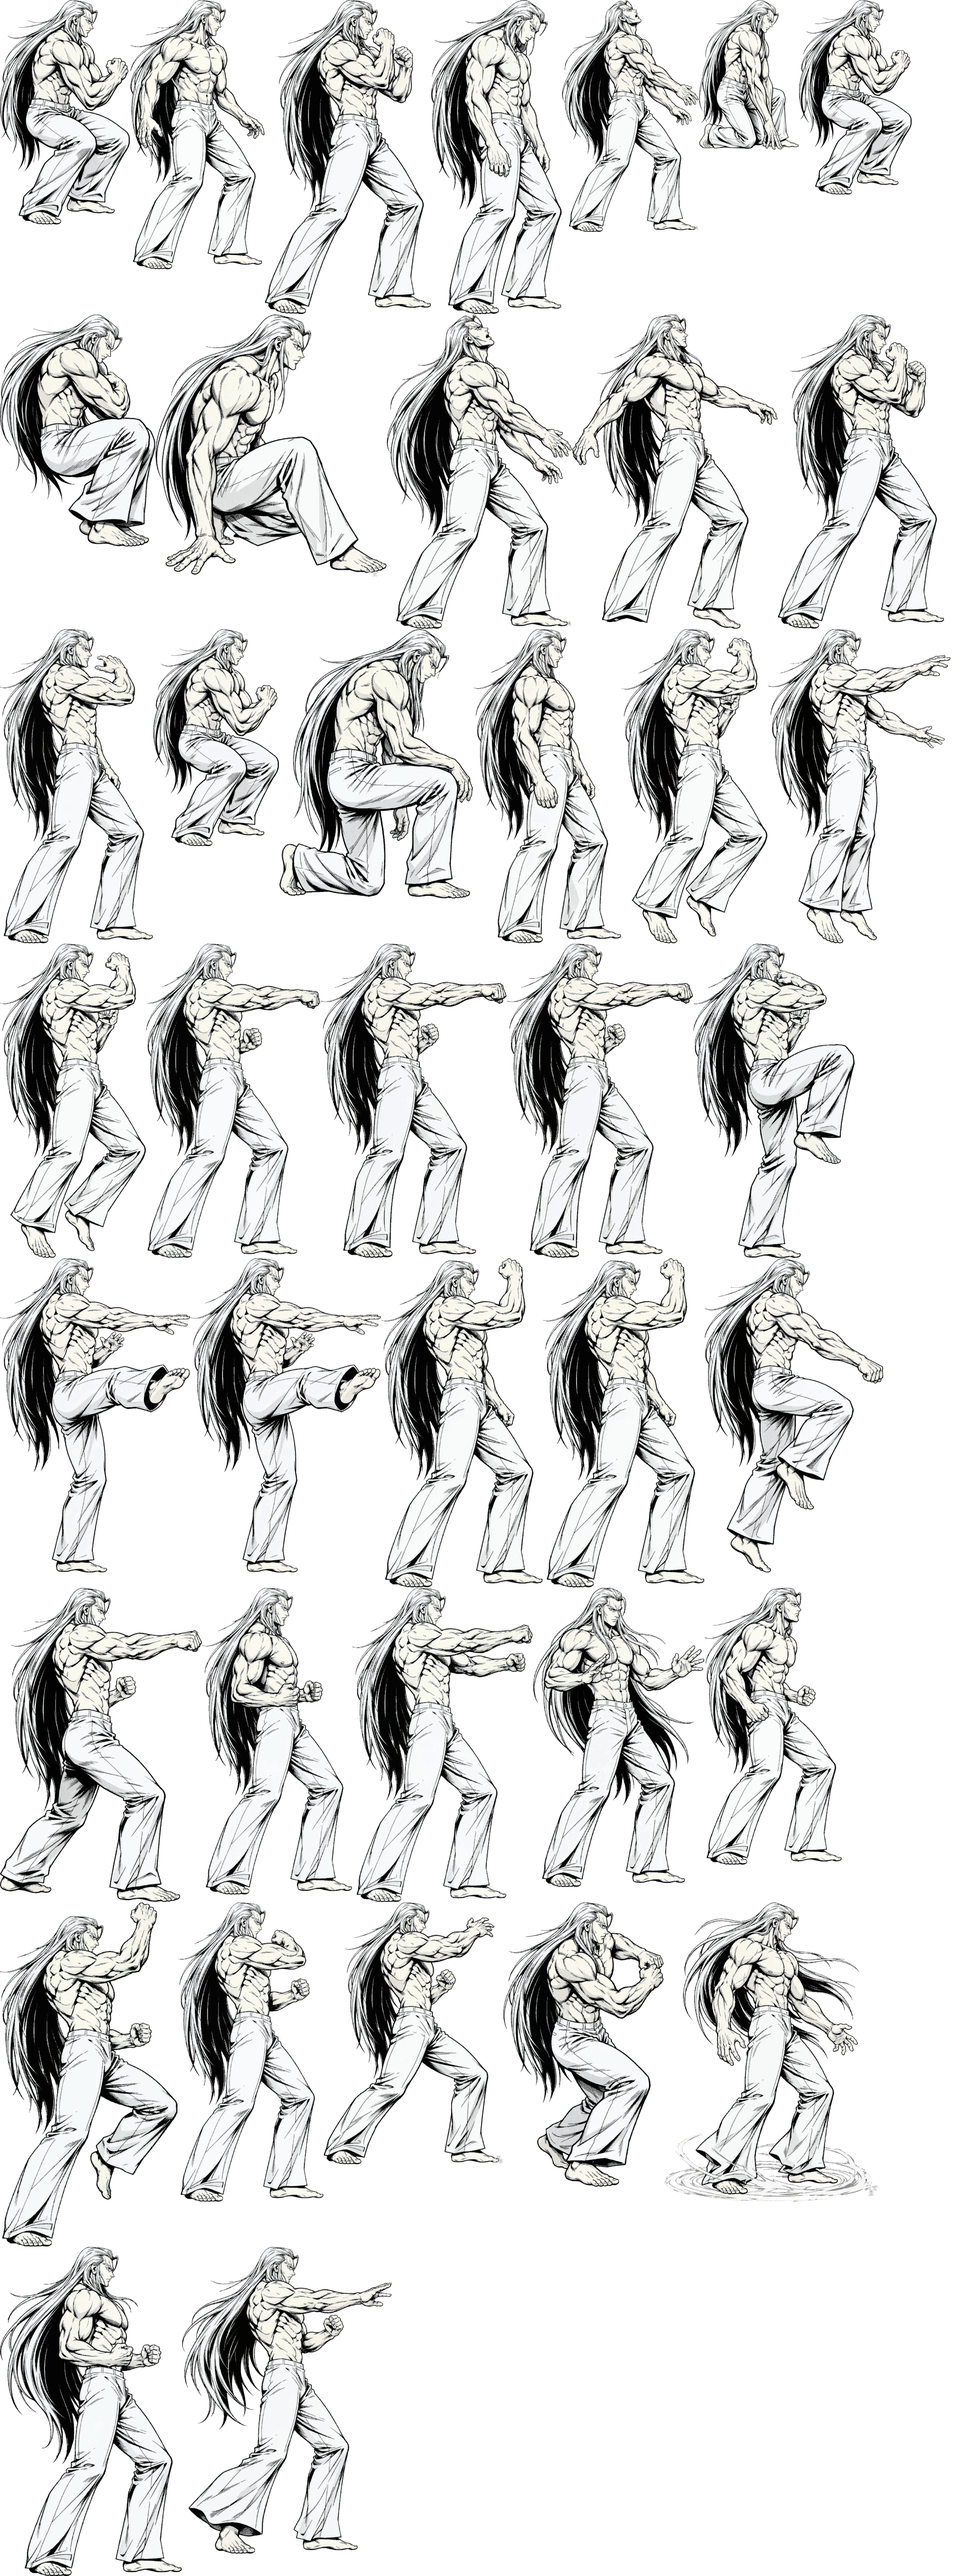
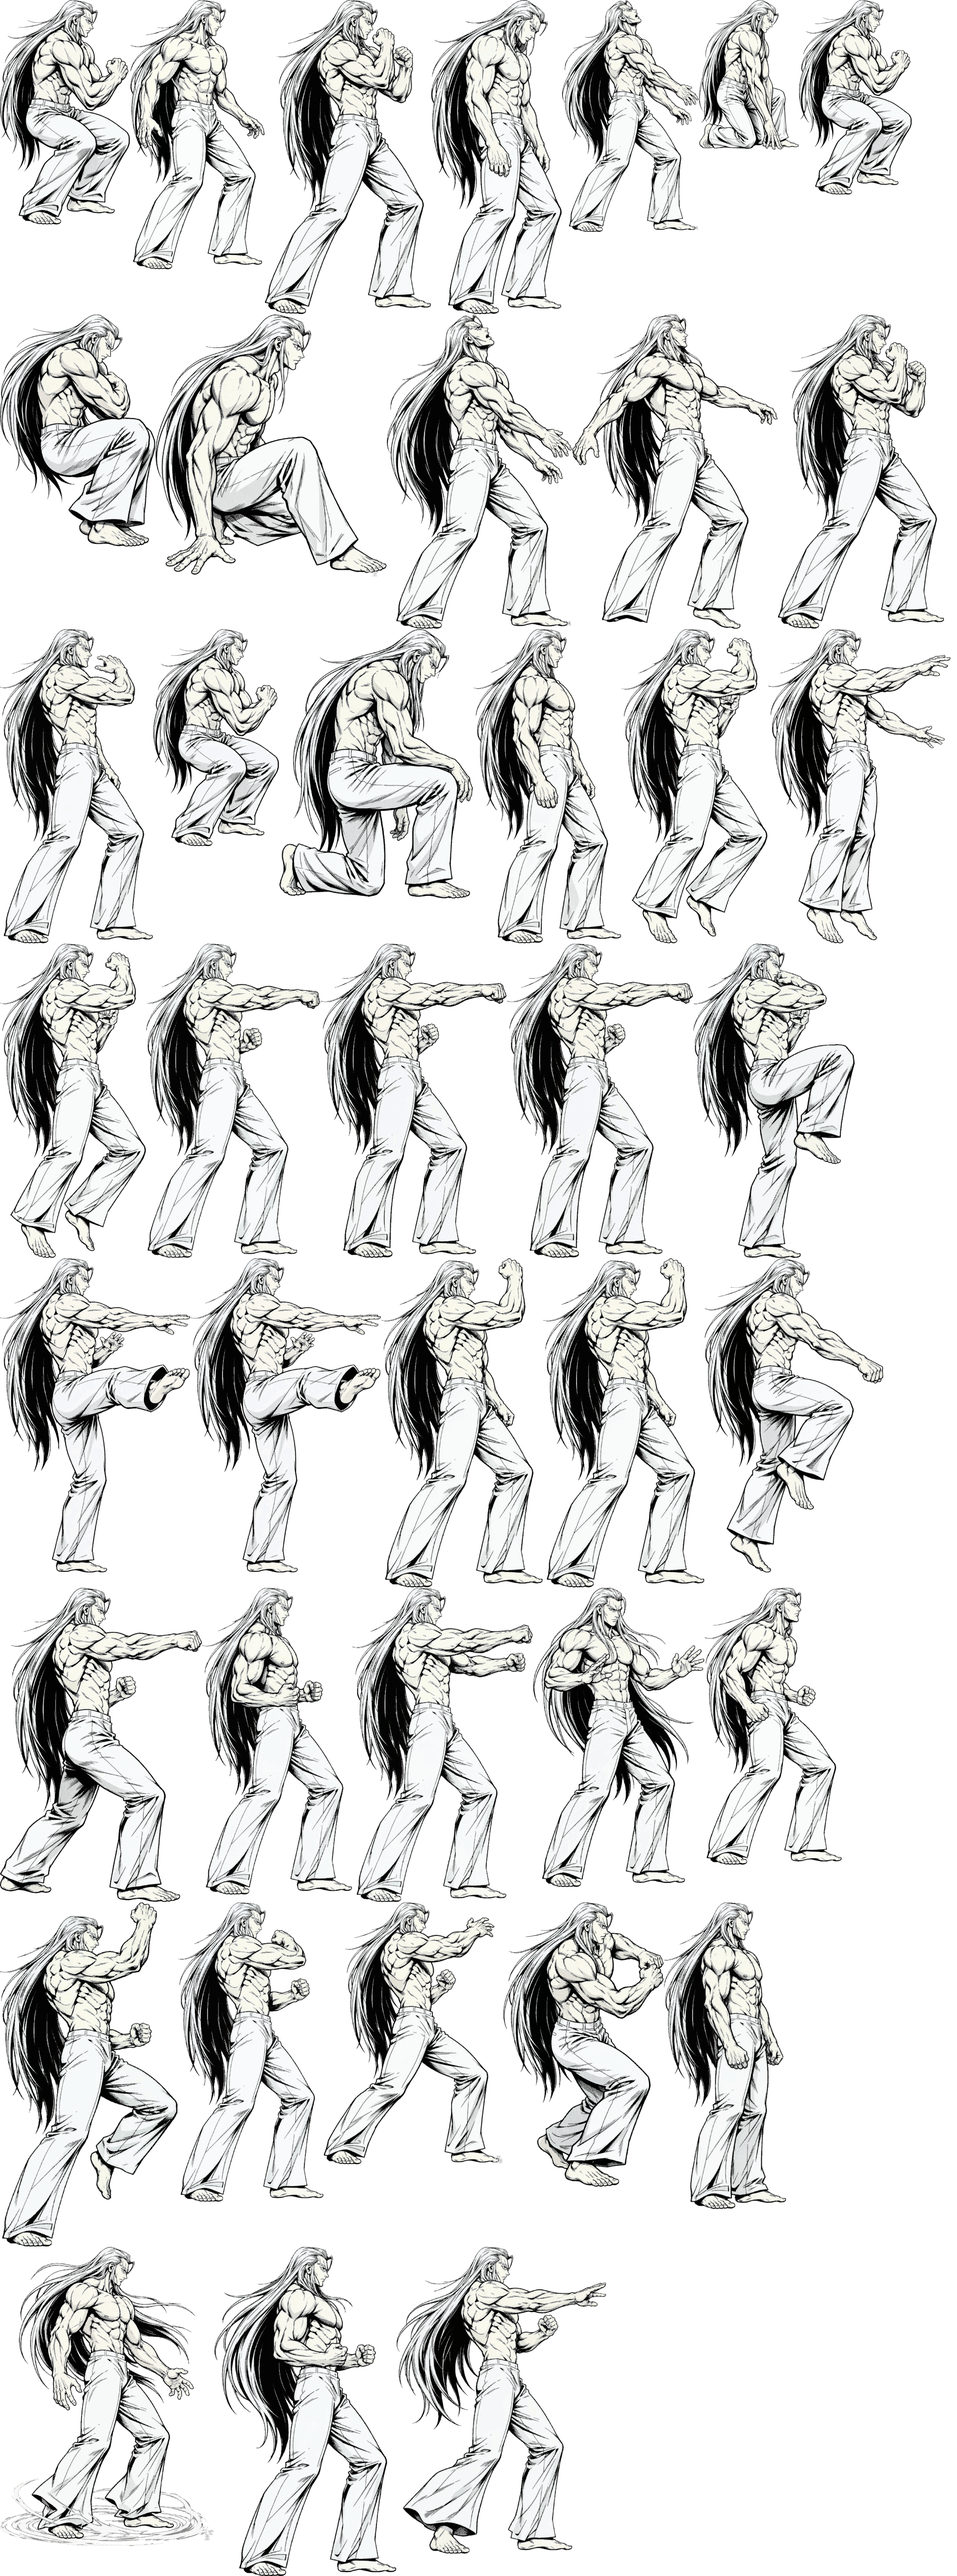
批次 20261027-0526 · [T255] 突进补收招帧：29/29 三帧（含缺帧补齐兜底）
结果：specialRush 29/29 三帧（京 592→640→656），art:check 通过，993 条测试全绿。

**关键决策：加了"缺帧补齐"兜底**。出图跑到 24/27（chris/goenitz/orochi 没出），
如果让它们少一帧，就会出现"同一招在不同角色上帧数不同"——播放节奏对不上，
看起来像卡了一下。所以 build-sheet 现在会**复制最后一帧补齐到目标帧数**：
多停 1/60 秒几乎看不出来，比破面好得多。

诚实说明：chris/goenitz/orochi 三个角色的第三帧是**复制的第二帧**、不是真出的图，
它们的收招是"停在出手姿势多一拍"而不是"收回来"——但这三个是 BOSS/新面孔，
平时很少被选到。

为什么不用"全员降回两帧"：24 个角色的真收招帧就白做了；补齐是"保住多数 + 兜住少数"
的折中。

怎么验证的：逐角色统计 {"3":29}；art:check 通过；npm run check 993 条全绿

Changed region(s): [[0.0, 0.8739, 0.625, 1.0], [0.6875, 0.7178, 0.9062, 0.8739]]

diff --git a/.continue/doing/59bce7.md b/.continue/doing/59bce7.md
@@ -6,7 +6,7 @@
 
 > 本批目标：突进必杀补第三帧（收招），四个必杀节奏完全统一。
 
-- [~] [T255] 突进补收招帧：两帧 → 三帧 → 单测 + 29/29
+- [阻塞] [T255] 突进补收招帧：两帧 → 三帧 → 单测 + 29/29
   - 做了什么：①`gen-poses.mjs` 加 `specialrushrecover`（撞完后肩膀收回、身体从压低前冲拉起、脚步刹住站稳）；②`build-sheet.mjs` 的 `specialRush` 改三帧，`HEIGHT_TARGET.specialRush = [70, 76, 82]`（压到后腿 → 撞出去 → 刹住站直）；③`poses.ts` 的 specialRush 从 2 帧扩到 3 帧
   - 为什么这轮只补突进：波动/升龙/超必杀都是三段了（T253/T254），只剩它还是两帧，同一类动作节奏不一致
   - 进行中：后台出图 27 角色 × 1 张（日志 `/tmp/gen-rushrec.log`，每角色间隔 55 秒，约 35 分钟）
